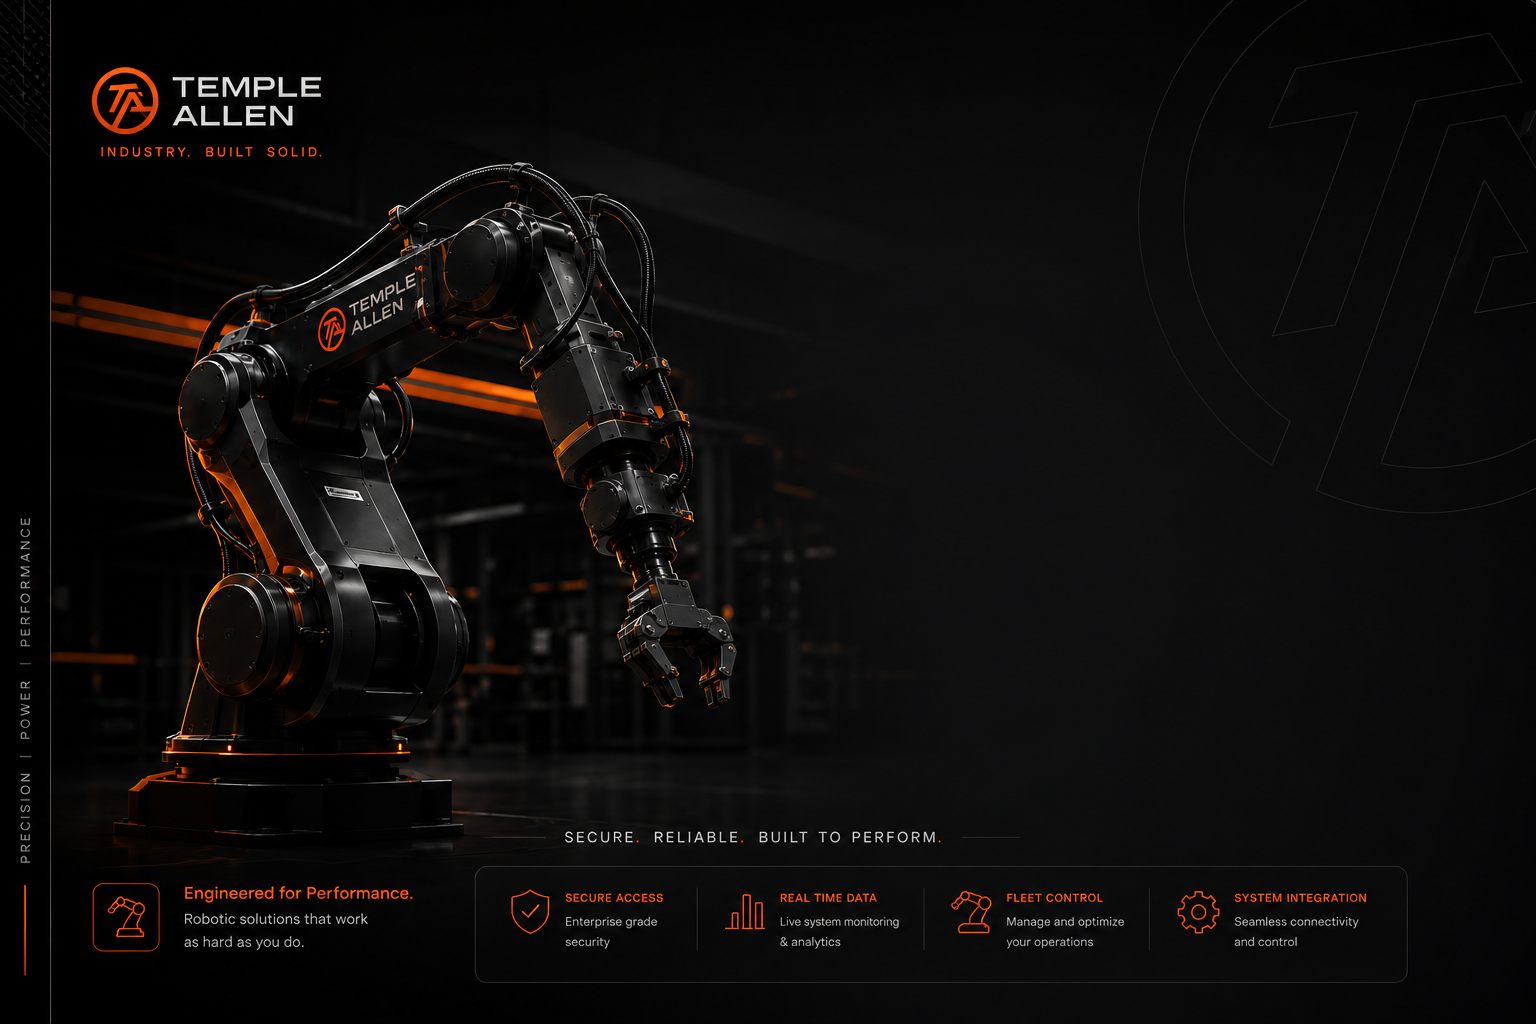
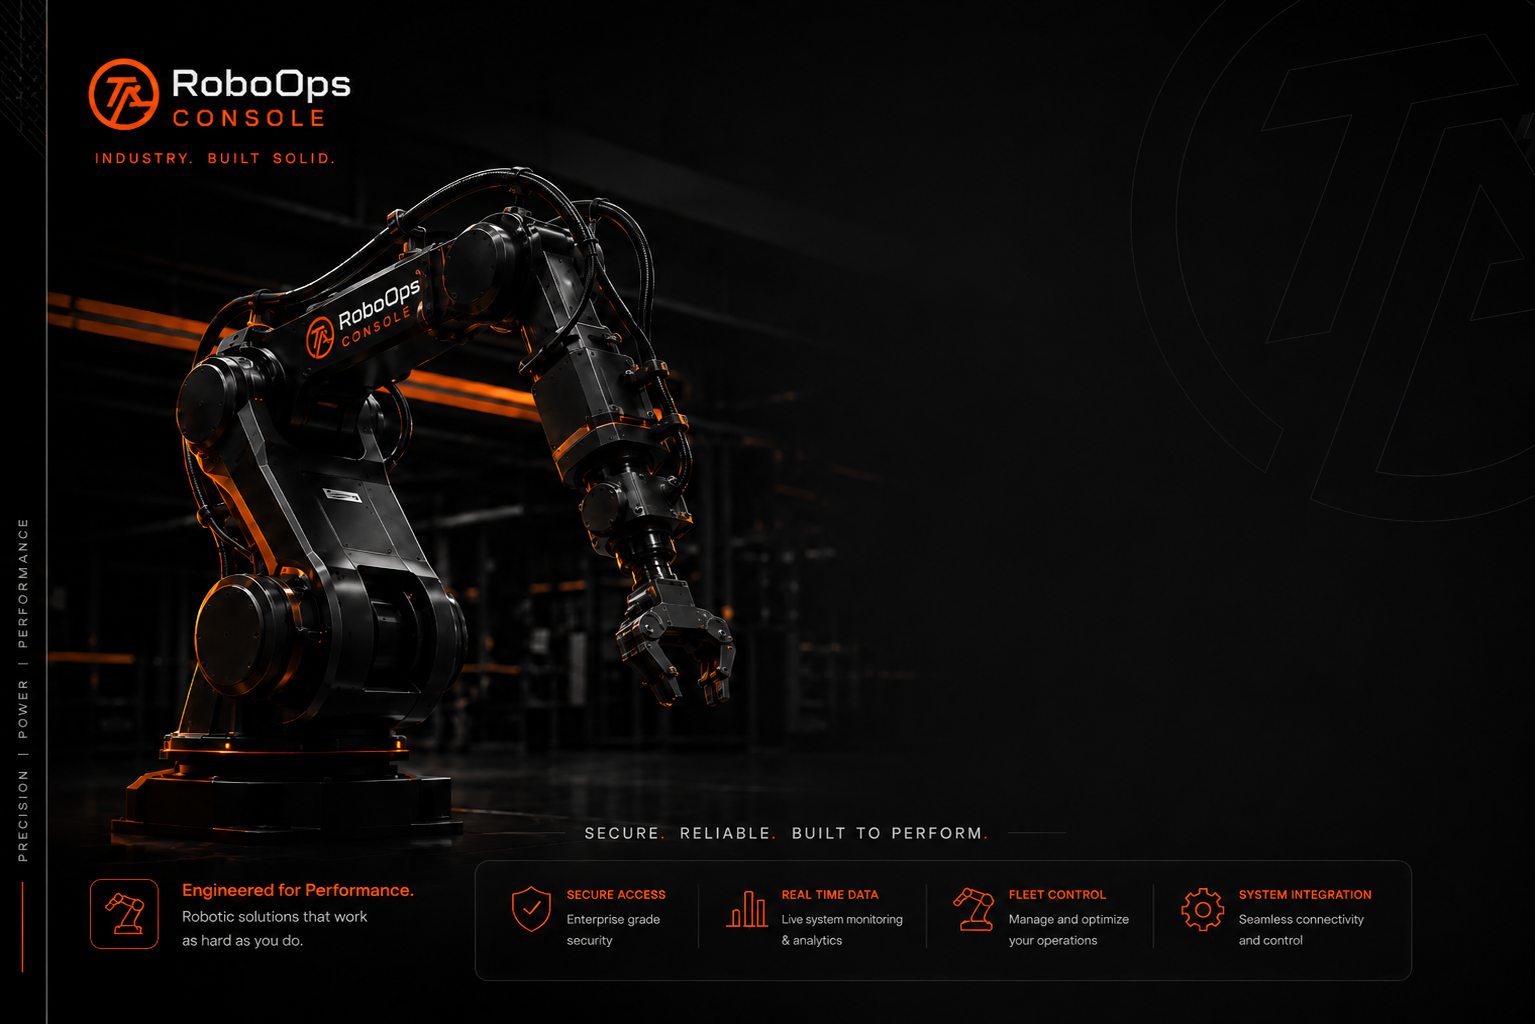
Login: full brand composition rebuilt in code
Recreate the whole marketing login in HTML (crisp, responsive, branded RoboOps/
AVA) instead of a baked image: RoboOps logo, PRECISION | POWER | PERFORMANCE
rail, "SECURE. RELIABLE. BUILT TO PERFORM." tagline, and the feature-card strip
(Secure Access / Real-Time Data / Fleet Control / System Integration) over the
real AVA robot photo, with the sign-in panel on the right.

diff --git a/frontend/src/components/Login.tsx b/frontend/src/components/Login.tsx
@@ -30,22 +30,59 @@ export default function Login({ onLogin }: { onLogin: (operator: string) => void
 
   return (
     <div className="h-full w-full flex bg-em-void overflow-hidden">
-      {/* Left: brand hero image (robot + logo stay framed) */}
+      {/* ---- Left: full brand composition ---- */}
       <div className="relative flex-1 hidden md:block">
-        <img src="/ava-real.webp" alt="RoboOps Console — AVA" className="absolute inset-0 w-full h-full object-cover object-center" />
-        <div className="absolute inset-0 bg-gradient-to-r from-black/50 via-transparent to-em-void" />
-        <div className="absolute top-8 left-8 flex items-center gap-3">
-          <div className="w-11 h-11 rounded-full grid place-items-center border-2 border-em-orange">
-            <span className="font-bold text-em-orange text-sm">RO</span>
+        <img src="/ava-real.webp" alt="AVA robot" className="absolute inset-0 w-full h-full object-cover object-center" />
+        <div className="absolute inset-0 bg-gradient-to-t from-em-void via-em-void/50 to-em-void/70" />
+        <div className="absolute inset-0 bg-gradient-to-r from-em-void/70 to-transparent" />
+
+        {/* logo */}
+        <div className="absolute top-9 left-12 flex items-center gap-3">
+          <div className="w-12 h-12 rounded-full grid place-items-center border-2 border-em-orange">
+            <span className="font-bold text-em-orange text-base">RO</span>
           </div>
           <div className="leading-tight">
-            <div className="font-semibold text-white tracking-wide">ROBOOPS</div>
-            <div className="text-[9px] font-bold tracking-[0.2em] text-em-orange">ROBOTIC OPERATIONS</div>
+            <div className="text-xl font-semibold text-white tracking-wide">ROBOOPS</div>
+            <div className="text-[10px] font-bold tracking-[0.22em] text-em-orange">ROBOTIC OPERATIONS</div>
+          </div>
+        </div>
+
+        {/* vertical rail label */}
+        <div className="absolute left-4 top-1/2 -translate-y-1/2 hidden lg:block">
+          <div className="text-[10px] tracking-[0.35em] text-em-muted rotate-180" style={{ writingMode: 'vertical-rl' }}>
+            PRECISION&nbsp;&nbsp;|&nbsp;&nbsp;POWER&nbsp;&nbsp;|&nbsp;&nbsp;PERFORMANCE
+          </div>
+        </div>
+
+        {/* tagline */}
+        <div className="absolute bottom-[168px] left-12 right-8 text-sm tracking-[0.25em] text-white/80 flex items-center gap-3">
+          <span>SECURE<span className="text-em-orange">.</span></span>
+          <span>RELIABLE<span className="text-em-orange">.</span></span>
+          <span>BUILT TO PERFORM<span className="text-em-orange">.</span></span>
+          <span className="flex-1 h-px bg-white/10" />
+        </div>
+
+        {/* feature cards */}
+        <div className="absolute bottom-6 left-12 right-8 glass p-4 flex items-stretch gap-4">
+          <div className="flex items-center gap-3 pr-4 border-r border-white/8 shrink-0 max-w-[240px]">
+            <span className="w-10 h-10 rounded-lg grid place-items-center text-em-orange border border-em-orange/30 shrink-0">
+              <RobotArmIcon />
+            </span>
+            <div>
+              <div className="text-sm font-semibold text-em-orange leading-tight">Engineered for performance.</div>
+              <div className="text-[11px] text-em-muted mt-0.5">Robotic solutions that work as hard as you do.</div>
+            </div>
+          </div>
+          <div className="grid grid-cols-2 xl:grid-cols-4 gap-x-6 gap-y-3 flex-1">
+            <Feature icon={<ShieldIcon />} title="Secure Access" desc="Enterprise-grade security" />
+            <Feature icon={<BarsIcon />} title="Real-Time Data" desc="Live monitoring & analytics" />
+            <Feature icon={<RobotArmIcon />} title="Fleet Control" desc="Manage & optimize operations" />
+            <Feature icon={<GearIcon />} title="System Integration" desc="Seamless connectivity" />
           </div>
         </div>
       </div>
 
-      {/* Right: sign-in column */}
+      {/* ---- Right: sign-in ---- */}
       <div className="w-full md:w-[460px] shrink-0 flex items-center justify-center p-6 sm:p-10">
         <form onSubmit={submit} className="w-full max-w-[400px] glass p-8 animate-riseIn">
           <div className="text-center mb-6">
@@ -59,13 +96,8 @@ export default function Login({ onLogin }: { onLogin: (operator: string) => void
             <span className="label">Username</span>
             <div className="mt-1.5 flex items-center gap-2 bg-black/40 border border-white/10 rounded-xl px-3.5 focus-within:border-em-orange transition-colors">
               <UserIcon />
-              <input
-                value={username}
-                onChange={(e) => setUsername(e.target.value)}
-                placeholder="Enter your username"
-                className="flex-1 bg-transparent py-3 text-em-ink placeholder:text-em-muted/60 focus:outline-none"
-                required
-              />
+              <input value={username} onChange={(e) => setUsername(e.target.value)} placeholder="Enter your username" required
+                className="flex-1 bg-transparent py-3 text-em-ink placeholder:text-em-muted/60 focus:outline-none" />
             </div>
           </label>
 
@@ -73,17 +105,9 @@ export default function Login({ onLogin }: { onLogin: (operator: string) => void
             <span className="label">Password</span>
             <div className="mt-1.5 flex items-center gap-2 bg-black/40 border border-white/10 rounded-xl px-3.5 focus-within:border-em-orange transition-colors">
               <LockIcon />
-              <input
-                type={showPw ? 'text' : 'password'}
-                value={password}
-                onChange={(e) => setPassword(e.target.value)}
-                placeholder="Enter your password"
-                required
-                className="flex-1 bg-transparent py-3 text-em-ink placeholder:text-em-muted/60 focus:outline-none"
-              />
-              <button type="button" onClick={() => setShowPw((v) => !v)} className="text-em-muted hover:text-em-ink">
-                <EyeIcon off={showPw} />
-              </button>
+              <input type={showPw ? 'text' : 'password'} value={password} onChange={(e) => setPassword(e.target.value)} placeholder="Enter your password" required
+                className="flex-1 bg-transparent py-3 text-em-ink placeholder:text-em-muted/60 focus:outline-none" />
+              <button type="button" onClick={() => setShowPw((v) => !v)} className="text-em-muted hover:text-em-ink"><EyeIcon off={showPw} /></button>
             </div>
           </label>
 
@@ -94,17 +118,12 @@ export default function Login({ onLogin }: { onLogin: (operator: string) => void
               <input type="checkbox" checked={remember} onChange={(e) => setRemember(e.target.checked)} className="accent-em-orange w-4 h-4" />
               Remember me
             </label>
-            <button type="button" className="text-em-orange hover:underline">
-              Forgot Password?
-            </button>
+            <button type="button" className="text-em-orange hover:underline">Forgot Password?</button>
           </div>
 
-          <button
-            type="submit"
-            disabled={busy}
+          <button type="submit" disabled={busy}
             className="btn w-full flex items-center justify-center gap-2 py-3.5 text-base font-bold text-white shadow-glowOrange"
-            style={{ background: 'linear-gradient(90deg,#ff8a1a,#ff5a00)' }}
-          >
+            style={{ background: 'linear-gradient(90deg,#ff8a1a,#ff5a00)' }}>
             {busy ? 'Authenticating…' : 'SIGN IN'}
             {!busy && <span className="text-lg">→</span>}
           </button>
@@ -118,22 +137,23 @@ export default function Login({ onLogin }: { onLogin: (operator: string) => void
   );
 }
 
-const UserIcon = () => (
-  <svg width="18" height="18" viewBox="0 0 24 24" fill="none" stroke="#ff6a1a" strokeWidth="1.8" strokeLinecap="round">
-    <circle cx="12" cy="8" r="4" />
-    <path d="M4 20c0-4 4-6 8-6s8 2 8 6" />
-  </svg>
-);
-const LockIcon = () => (
-  <svg width="18" height="18" viewBox="0 0 24 24" fill="none" stroke="#ff6a1a" strokeWidth="1.8" strokeLinecap="round">
-    <rect x="4" y="10" width="16" height="11" rx="2" />
-    <path d="M8 10V7a4 4 0 1 1 8 0v3" />
-  </svg>
-);
-const EyeIcon = ({ off }: { off: boolean }) => (
-  <svg width="18" height="18" viewBox="0 0 24 24" fill="none" stroke="currentColor" strokeWidth="1.8" strokeLinecap="round">
-    <path d="M2 12s3.5-7 10-7 10 7 10 7-3.5 7-10 7-10-7-10-7z" />
-    <circle cx="12" cy="12" r="3" />
-    {off && <path d="M4 4l16 16" />}
-  </svg>
-);
+function Feature({ icon, title, desc }: { icon: React.ReactNode; title: string; desc: string }) {
+  return (
+    <div className="flex items-start gap-2.5">
+      <span className="text-em-orange mt-0.5 shrink-0">{icon}</span>
+      <div className="min-w-0">
+        <div className="text-[11px] font-bold uppercase tracking-wider text-em-ink">{title}</div>
+        <div className="text-[11px] text-em-muted leading-tight">{desc}</div>
+      </div>
+    </div>
+  );
+}
+
+const s = { width: 18, height: 18, viewBox: '0 0 24 24', fill: 'none', stroke: 'currentColor', strokeWidth: 1.8, strokeLinecap: 'round' as const, strokeLinejoin: 'round' as const };
+const UserIcon = () => (<svg {...s} stroke="#ff6a1a"><circle cx="12" cy="8" r="4" /><path d="M4 20c0-4 4-6 8-6s8 2 8 6" /></svg>);
+const LockIcon = () => (<svg {...s} stroke="#ff6a1a"><rect x="4" y="10" width="16" height="11" rx="2" /><path d="M8 10V7a4 4 0 1 1 8 0v3" /></svg>);
+const EyeIcon = ({ off }: { off: boolean }) => (<svg {...s}><path d="M2 12s3.5-7 10-7 10 7 10 7-3.5 7-10 7-10-7-10-7z" /><circle cx="12" cy="12" r="3" />{off && <path d="M4 4l16 16" />}</svg>);
+const ShieldIcon = () => (<svg {...s}><path d="M12 3l7 3v5c0 4.5-3 8-7 10-4-2-7-5.5-7-10V6z" /><path d="M9 12l2 2 4-4" /></svg>);
+const BarsIcon = () => (<svg {...s}><path d="M5 20V10M12 20V4M19 20v-7" /></svg>);
+const GearIcon = () => (<svg {...s}><circle cx="12" cy="12" r="3" /><path d="M12 3v3M12 18v3M3 12h3M18 12h3M5.6 5.6l2.1 2.1M16.3 16.3l2.1 2.1M18.4 5.6l-2.1 2.1M7.7 16.3l-2.1 2.1" /></svg>);
+const RobotArmIcon = () => (<svg {...s}><path d="M4 21h6M6 21v-4l4-2 3-5" /><rect x="11" y="8" width="6" height="4" rx="1" transform="rotate(-30 14 10)" /><circle cx="6" cy="17" r="1.5" /><path d="M13 4l3 2" /></svg>);